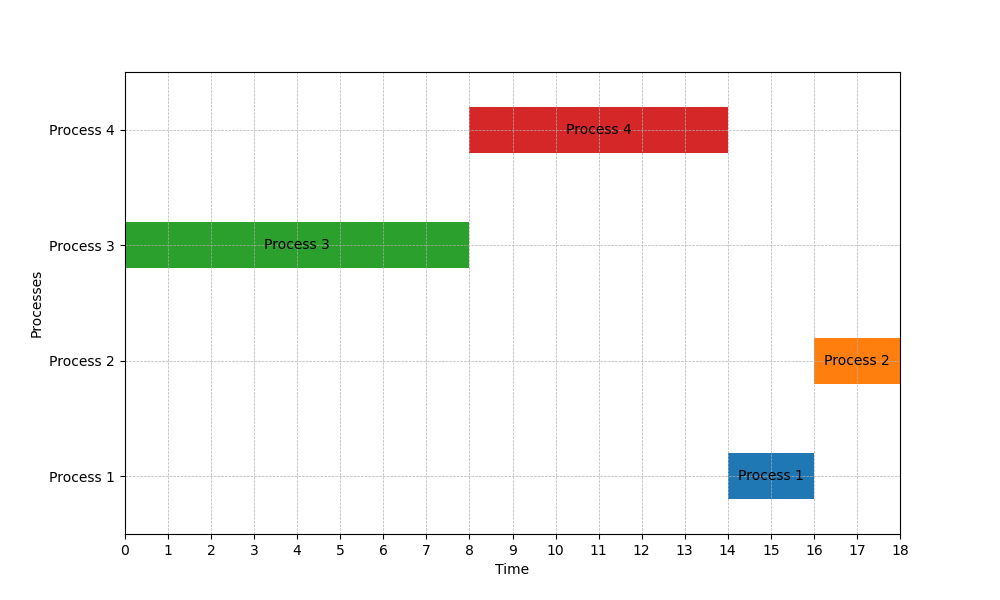
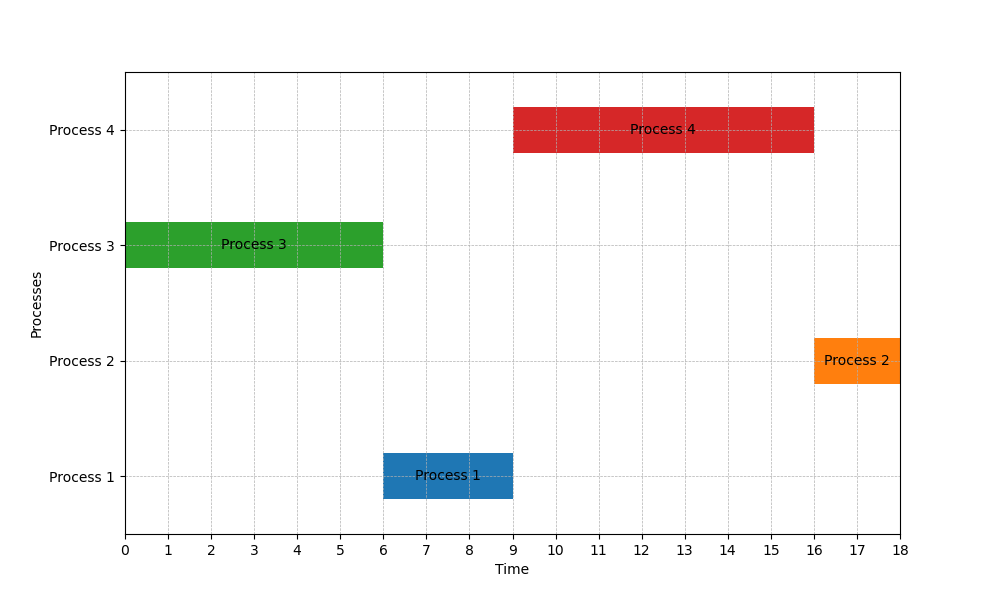
inverse of sfj

diff --git a/templates/entered_processes.html b/templates/entered_processes.html
@@ -73,5 +73,38 @@
         <img src="{{ url_for('static', filename='gantt_chart1.png') }}" alt="Gantt Chart">
         {% endif %}
     </div>
+    <div class="img-container">
+    {% if sjf_results %}
+    <h2>SJF Results</h2>
+    <table class="sjf-results-table">
+        <thead>
+            <tr>
+                <th>Statistic</th>
+                <th>Value</th>
+            </tr>
+        </thead>
+        <tbody>
+            <tr>
+                <td>Average Turnaround Time</td>
+                <td>{{ sjf_results.avg_turnaround_time }}</td>
+            </tr>
+            <tr>
+                <td>Average Waiting Time</td>
+                <td>{{ sjf_results.avg_waiting_time }}</td>
+            </tr>
+            <tr>
+                <td>Total Turnaround Time</td>
+                <td>{{ sjf_results.total_turnaround_time }}</td>
+            </tr>
+            <tr>
+                <td>Total Waiting Time</td>
+                <td>{{ sjf_results.total_waiting_time }}</td>
+            </tr>
+        </tbody>
+    </table>
+    <img src="{{ url_for('static', filename='gantt_chart2.png') }}" alt="Gantt Chart">
+    {% endif %}
+    </div>
+
 </body>
 </html>

diff --git a/app.py b/app.py
@@ -76,8 +76,6 @@ def enter_details():
 
         # Sort processes by ID
         processes = sorted(processes, key=lambda x: int(x['process_id']))
-        print("eeede")
-        print(process)
         # Store form data in the session
         session['entered_processes_data'] = {
             'processes': processes,
@@ -101,6 +99,7 @@ def entered_processes():
         return redirect(url_for('enter'))
 
     processes = entered_processes_data['processes']
+    len_processes = len(processes)
     selected_algorithms = entered_processes_data['selected_algorithms']
 
     # Get priority applicability from session
@@ -108,23 +107,24 @@ def entered_processes():
 
     # Initialize variables to store FCFS results
     fcfs_results = None
-
+    processes = []
+    for i, process_data in enumerate(entered_processes_data['processes']):
+        id = int(process_data['process_id'])
+        arrival_time = int(process_data['arrival_time'])
+        burst_time = int(process_data['burst_time'])
+        priority = int(process_data['priority']) if priority_applicable else "N/A"
+        processes.append(Process(id, arrival_time, burst_time, priority))
+    # Create a scheduler with the entered processes
+    scheduler = Scheduler(processes)
+    fcfs_results = []
+    sjf_results = []
     # Check if FCFS algorithm is selected
     if 'FCFS' in selected_algorithms:
         # Process the form data to create a list of Process objects
-        processes = []
-        for i, process_data in enumerate(entered_processes_data['processes']):
-            id = int(process_data['process_id'])
-            arrival_time = int(process_data['arrival_time'])
-            burst_time = int(process_data['burst_time'])
-            priority = int(process_data['priority']) if priority_applicable else "N/A"
-            processes.append(Process(id, arrival_time, burst_time, priority))
-
-        # Create a scheduler with the entered processes
-        scheduler = Scheduler(processes)
 
         # Run FCFS algorithm
         gantt = scheduler.run_FCFS()
+        scheduler.processes = processes
         execution_data = []
 
         # Process the gantt data to create execution intervals
@@ -137,13 +137,12 @@ def entered_processes():
 
         # Sort execution_data by process IDs
         execution_data.sort(key=lambda x: x['process_id'])
-
         # Store FCFS algorithm results
         fcfs_results = {
-            'avg_turnaround_time': utils.calculate_average_turnaround_time(processes),
-            'avg_waiting_time': utils.calculate_average_waiting_time(processes),
-            'total_turnaround_time': utils.calculate_total_turnaround_time(processes),
-            'total_waiting_time': utils.calculate_total_waiting_time(processes),
+            'avg_turnaround_time': utils.calculate_average_turnaround_time(scheduler.processes),
+            'avg_waiting_time': utils.calculate_average_waiting_time(scheduler.processes),
+            'total_turnaround_time': utils.calculate_total_turnaround_time(scheduler.processes),
+            'total_waiting_time': utils.calculate_total_waiting_time(scheduler.processes),
         }
         print(execution_data)
         fig, ax = plt.subplots(figsize=(10, 6))
@@ -186,11 +185,75 @@ def entered_processes():
         # Save the figure to a file
         plt.savefig('static/gantt_chart1.png')
 
-    # Convert execution_data to JSON string
+    if 'SJF' in selected_algorithms:
 
+
+        # Run SJF algorithm
+        gantt = scheduler.run_SJF()
+
+        execution_data = []
+        print("bbbb"+str(len(processes)))
+
+        # Process the gantt data to create execution intervals
+        current_time = 0
+
+        for process_id in gantt:
+            start_time = current_time
+            end_time = current_time + process_id[1]  # Assuming each process executes for 1 unit of time
+            execution_data.append({'process_id': process_id[0], 'start_time': start_time, 'end_time': end_time})
+            current_time = end_time
+
+        # Sort execution_data by process IDs
+        execution_data.sort(key=lambda x: x['process_id'])
+
+        # Store SJF algorithm results
+        sjf_results = {
+            'avg_turnaround_time': utils.calculate_average_turnaround_time(scheduler.processes),
+            'avg_waiting_time': utils.calculate_average_waiting_time(scheduler.processes),
+            'total_turnaround_time': utils.calculate_total_turnaround_time(scheduler.processes),
+            'total_waiting_time': utils.calculate_total_waiting_time(scheduler.processes),
+        }
+        print(execution_data)
+        fig, ax = plt.subplots(figsize=(10, 6))
+
+        # Set up the axes formatting
+        ax.set_ylim(0.5, len(execution_data) + 0.5)
+        ax.set_xlim(0, max(ed['end_time'] for ed in execution_data))
+        ax.set_xlabel('Time')
+        ax.set_ylabel('Processes')
+        ax.set_yticks(range(1, len(execution_data) + 1))
+        ax.set_yticklabels([f'Process {ed["process_id"]}' for ed in execution_data])
+
+        # Change x-axis locator to integer increments
+        ax.xaxis.set_major_locator(plt.MultipleLocator(1))
+
+        # Format x-axis labels as integers without leading zeros
+        def format_x_ticks(x, pos=None):
+            return f'{int(x):d}'
+
+        ax.xaxis.set_major_formatter(plt.FuncFormatter(format_x_ticks))
+
+        # Set grid for better readability
+        ax.grid(True, which='both', axis='both', linestyle='--', linewidth=0.5)
+
+        # Plot each process on the Gantt chart
+        for i, ed in enumerate(execution_data, start=1):
+            start_time = ed['start_time']
+            end_time = ed['end_time']
+            duration = end_time - start_time
+            ax.barh(i, duration, left=start_time, height=0.4, align='center')
+
+            # Annotate the bars with process IDs
+            ax.text(start_time + duration / 2, i, f'Process {ed["process_id"]}', ha='center', va='center')
+
+            # Set x-axis limits based on the start and end times
+            ax.set_xlim(0, max(ed['end_time'] for ed in execution_data))
+
+        # Save the figure to a file
+        plt.savefig('static/gantt_chart2.png')
 
     # Pass the entered processes, selected algorithms, and FCFS algorithm results to the template
-    return render_template('entered_processes.html', processes=processes, selected_algorithms=selected_algorithms, fcfs_results=fcfs_results, execution_data=execution_data)
+    return render_template('entered_processes.html', processes=processes, selected_algorithms=selected_algorithms, sjf_results=sjf_results, fcfs_results=fcfs_results, execution_data=execution_data)
 
 if __name__ == '__main__':
     app.run(debug=True)

diff --git a/scheduler.py b/scheduler.py
@@ -47,14 +47,15 @@ class Scheduler:
     def run_SJF(self):
         # Sort processes based on arrival time
         self.processes.sort(key=lambda x: x.arrival_time)
-        
+        original = [i for i in self.processes]
         current_time = 0
+        gantt = []
         completed_processes = []
 
         while self.processes:
             # Find processes that have arrived before or at the current time
             available_processes = [process for process in self.processes if process.arrival_time <= current_time]
-            
+
             if not available_processes:
                 # If no processes are available, move time to the next arrival time
                 current_time = self.processes[0].arrival_time
@@ -63,7 +64,14 @@ class Scheduler:
             # Select the process with the minimum burst time among available processes
             shortest_job = min(available_processes, key=lambda x: x.burst_time)
 
-            # Update current time
+            # Ensure current time is at least the arrival time of the shortest job
+            if current_time < shortest_job.arrival_time:
+                current_time = shortest_job.arrival_time
+
+            # Execute the shortest job
+            print(f"Executing Process {shortest_job.id} at Time {current_time}")
+            gantt.append((shortest_job.id, shortest_job.burst_time))
+            # Update current time to account for process burst time
             current_time += shortest_job.burst_time
 
             # Set finish time of the process
@@ -71,18 +79,23 @@ class Scheduler:
 
             # Calculate and display turnaround time for the process
             turnaround_time = shortest_job.finish_time - shortest_job.arrival_time
-            print(f"Executing Process {shortest_job.id} at Time {current_time - shortest_job.burst_time}")
             print(f"Process {shortest_job.id} completed. Turnaround Time: {turnaround_time}")
 
             # Remove the completed process from the list of processes
             self.processes.remove(shortest_job)
             completed_processes.append(shortest_job)
+        self.processes = [i for i in original]
 
         # Calculate and display average turnaround time for all processes
         avg_turnaround_time = calculate_average_turnaround_time(completed_processes)
         avg_waiting_time = calculate_average_waiting_time(completed_processes)
+        total_turnaround_time = calculate_total_turnaround_time(completed_processes)
+        total_waiting_time = calculate_total_waiting_time(completed_processes)
         print(f"Average Turnaround Time (SJF): {avg_turnaround_time}")
         print(f"Average Waiting Time (SJF): {avg_waiting_time}")
+        print(f"Total Turnaround Time (SJF): {total_turnaround_time}")
+        print(f"Total Waiting Time (SJF): {total_waiting_time}")
+        return gantt
 
     def run_priority_scheduling(self):
         # Sort processes based on arrival time and priority
